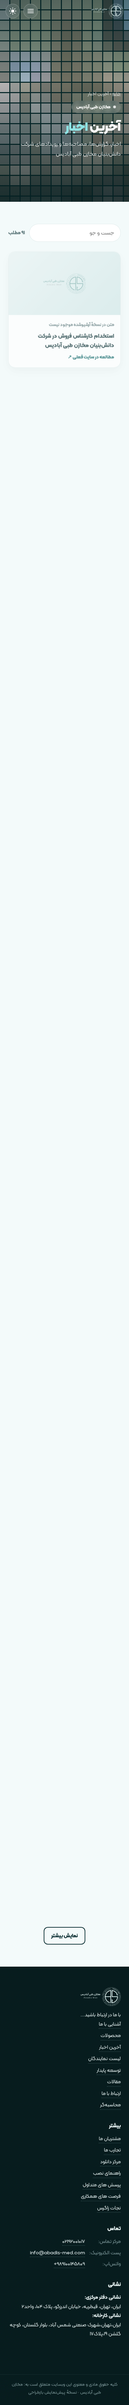
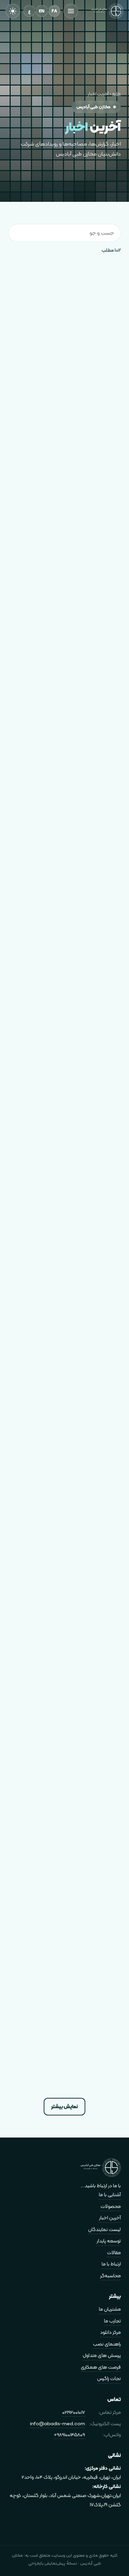
test(site): full-site Playwright/Lighthouse/link check suite + TEST-REPORT.md
Re-run prompt 7 on 403 pages (FA+EN+AR). Update REPs for i18n, fix forms
mailto probe and mainNav selector, refresh TEST-REPORT and curated shots.

diff --git a/docs/abadis/TEST-REPORT.md b/docs/abadis/TEST-REPORT.md
@@ -1,50 +1,55 @@
 # Abadis redesign — TEST REPORT
 
-- **Date:** 2026-10-06T16:40:10.017Z
-- **SHA:** `e8efab8` (branch tip when suite ran; site HTML unchanged since prompt 0 `20a5a37`)
+- **Date:** 2026-10-06T20:37:20.712Z
+- **SHA:** `9591580481a37dd8a4c3beec87ad8aa72359d085`
 - **Base:** http://127.0.0.1:8080
-- **Pages:** 219
+- **Pages:** 403
 - **Totals:** ✅ 12 · ❌ 1 · ⚠ 3 · ❓ 0
 
 ## Results
 
 | # | Test | Scope | Result | Details / shots |
 |---|------|-------|--------|-----------------|
-| 1 | Internal links (linkinator) | full recurse | ⚠ warn | broken=0 |
-| 2 | 404 and broken assets | 219 pages | ✅ pass | bad=0 |
-| 3 | Console / page errors | 219 pages | ✅ pass | console=0 |
+| 1 | Internal links (linkinator) | full recurse | ❌ fail | total=1659; broken=2; livePostHrefs=246 |
+| 2 | 404 and broken assets | 403 pages | ✅ pass | bad=0 |
+| 3 | Console / page errors | 403 pages | ✅ pass | console=0 |
 | 4 | Three themes + color contrast | 7 pages × 3 themes | ⚠ warn | {"themeOk":true,"contrastFails":[{"page":"/contact/","theme":"light","count":1,"nodes":3}],"themeFails":[]} |
 | 5 | Responsive / no horizontal scroll | 8 pages × viewports | ✅ pass | overflow=0 |
-| 6 | Lighthouse mobile | 5 key pages | ⚠ warn | lh-calc.json: a11y 100 / perf 85 / seo 63; lh-csr.json: a11y 100 / perf 71 / seo 63; lh-home.json: a11y 100 / perf 74 / seo 63; lh-news.json: a11y 98 / perf 84 / seo 63; lh-suction.json: a11y 96 / perf 78 / seo 63 |
-| 7 | RTL / lang=fa | representative FA pages | ✅ pass | fails=0 |
+| 6 | Lighthouse mobile | 5 key pages | ⚠ warn | SEO may be low due to noindex (warn, not fail alone); lh-calc.json: a11y 100 / perf 89 / seo 66; lh-csr.json: a11y 100 / perf 72 / seo 63; lh-home.json: a11y 100 / perf 82 / seo 54; lh-news.json: a11y 98 / perf 81 / seo 66; lh-suction.json: a11y 96 / perf 76 / seo 54 |
+| 7 | RTL / LTR lang+dir | representative FA + EN + AR pages | ✅ pass | fails=0 |
 | 8 | Kalameh font | home/about/news/products | ✅ pass | fails=0 |
 | 9 | Calculator formulas | /calculator/ + 5 designs have ABADIS_FORMULAS | ✅ pass | formulas=ok |
-| 10 | CSR Zagros scroll | 375 + 1440 | ✅ pass | {"results":[{"vp":{"w":375,"h":812},"s0":{"scrollY":80,"mid":0,"green":0},"s50":{"scrollY":1218,"mid":1,"green":0.026},"s100":{"scrollY":2436,"mid":1,"green":1},"progressed":tru… |
+| 10 | CSR Zagros scroll | 375 + 1440 | ✅ pass | {"results":[{"vp":{"w":375,"h":812},"s0":{"scrollY":80,"mid":0,"green":0},"s50":{"scrollY":1218,"mid":1,"green":0.023},"s100":{"scrollY":2436,"mid":1,"green":1},"progressed":tru… |
 | 11 | Suction-bag 3D viewer | 375 + 1440 + WebGL-off probe | ✅ pass | {"results":[{"vp":{"w":375,"h":812},"hasCanvas":true,"w":375,"h":812,"overflow":false,"glbStatus":200,"ok":true},{"vp":{"w":1440,"h":900},"hasCanvas":true,"w":1440,"h":900,"over… |
 | 12 | Theme toggle cycle + persist | home | ✅ pass | {"seq":["dark","noir","light"],"stored":"light","after":"light","rmTheme":"dark","cycleOk":true,"persistOk":true} |
 | 13 | Header transparent / scrolled / on-light | home about products news (light) | ✅ pass | fails=0 |
-| 14 | Forms contact + careers | /contact/ /careers/ | ✅ pass | {"hasLead":true,"contactEmptyBlocked":true,"contactMailtoBuilt":true,"contactMailto":"mailto:info@abadis-med.com?subject=%D8%AF%D8%B1%D8%AE%D9%88%D8%A7%D8%B3%D8%AA%20%D8%A7%D8%B… |
+| 14 | Forms contact + careers | /contact/ /careers/ | ✅ pass | {"hasLead":true,"endpointEmpty":true,"contactEmptyBlocked":true,"contactMailto":null,"contactStatus":"برنامهٔ ایمیل شما باز شد؛ پیام بعد از ارسال از همانجا به دست ما میرسد.","… |
 | 15 | Brand rules | nav order, footer certs, yellow CSS, pointermove | ✅ pass | yellow=0; pointermove=0 |
-| 16 | Meta title/description/h1/alt | 219 pages | ❌ fail | dupTitles=1; missingAltPages=0 |
+| 16 | Meta title/description/h1/alt | 403 pages | ⚠ warn | dupTitles=0; missingAltPages=1 |
 
 ## Bugs (do not fix in this prompt)
 
 | Severity | Test | Page | Detail |
 |----------|------|------|--------|
-| major | 16 | /install-guide/tanks/ | duplicate title with /articles/2615/: راهنمای نصب مخازن — مخازن طبی آبادیس |
-| minor | 1 | / | 25 unique hrefs to abadis-med.com (non wp-content); 18 post-card ext on news/articles indexes |
+| critical | 1 | http://127.0.0.1:8080/en/representatives/ | 0 http://no.105/ |
+| critical | 1 | http://127.0.0.1:8080/en/contact-us/ | 0 http://02192001017 |
+| minor | 1 | / | 246 unique hrefs to abadis-med.com (non wp-content) — missing posts / live fallbacks |
 | minor | 4 | /contact/ | contrast light: 1 |
+| minor | 16 | /arabic/الحوسبة/ | missing meta description |
+| minor | 16 | /en/calculator/ | missing meta description |
+| minor | 16 | /en/collaboration-opportunities/ | missing meta description |
 | minor | 16 | /news/1124/ | missing meta description |
+| minor | 16 | /en/ | imgs without alt: 18 |
 
 ## Lighthouse (mobile)
 
 | Page | Perf | a11y | Best practices | SEO |
 |------|------|------|----------------|-----|
-| http://127.0.0.1:8080/calculator/ | 85 | 100 | 100 | 63 |
-| http://127.0.0.1:8080/csr/ | 71 | 100 | 100 | 63 |
-| http://127.0.0.1:8080/ | 74 | 100 | 100 | 63 |
-| http://127.0.0.1:8080/news/ | 84 | 98 | 100 | 63 |
-| http://127.0.0.1:8080/products/suction-bag/ | 78 | 96 | 96 | 63 |
+| http://127.0.0.1:8080/calculator/ | 89 | 100 | 100 | 66 |
+| http://127.0.0.1:8080/csr/ | 72 | 100 | 100 | 63 |
+| http://127.0.0.1:8080/ | 82 | 100 | 100 | 54 |
+| http://127.0.0.1:8080/news/ | 81 | 98 | 100 | 66 |
+| http://127.0.0.1:8080/products/suction-bag/ | 76 | 96 | 96 | 54 |
 
 ## Screenshots (curated)
 
